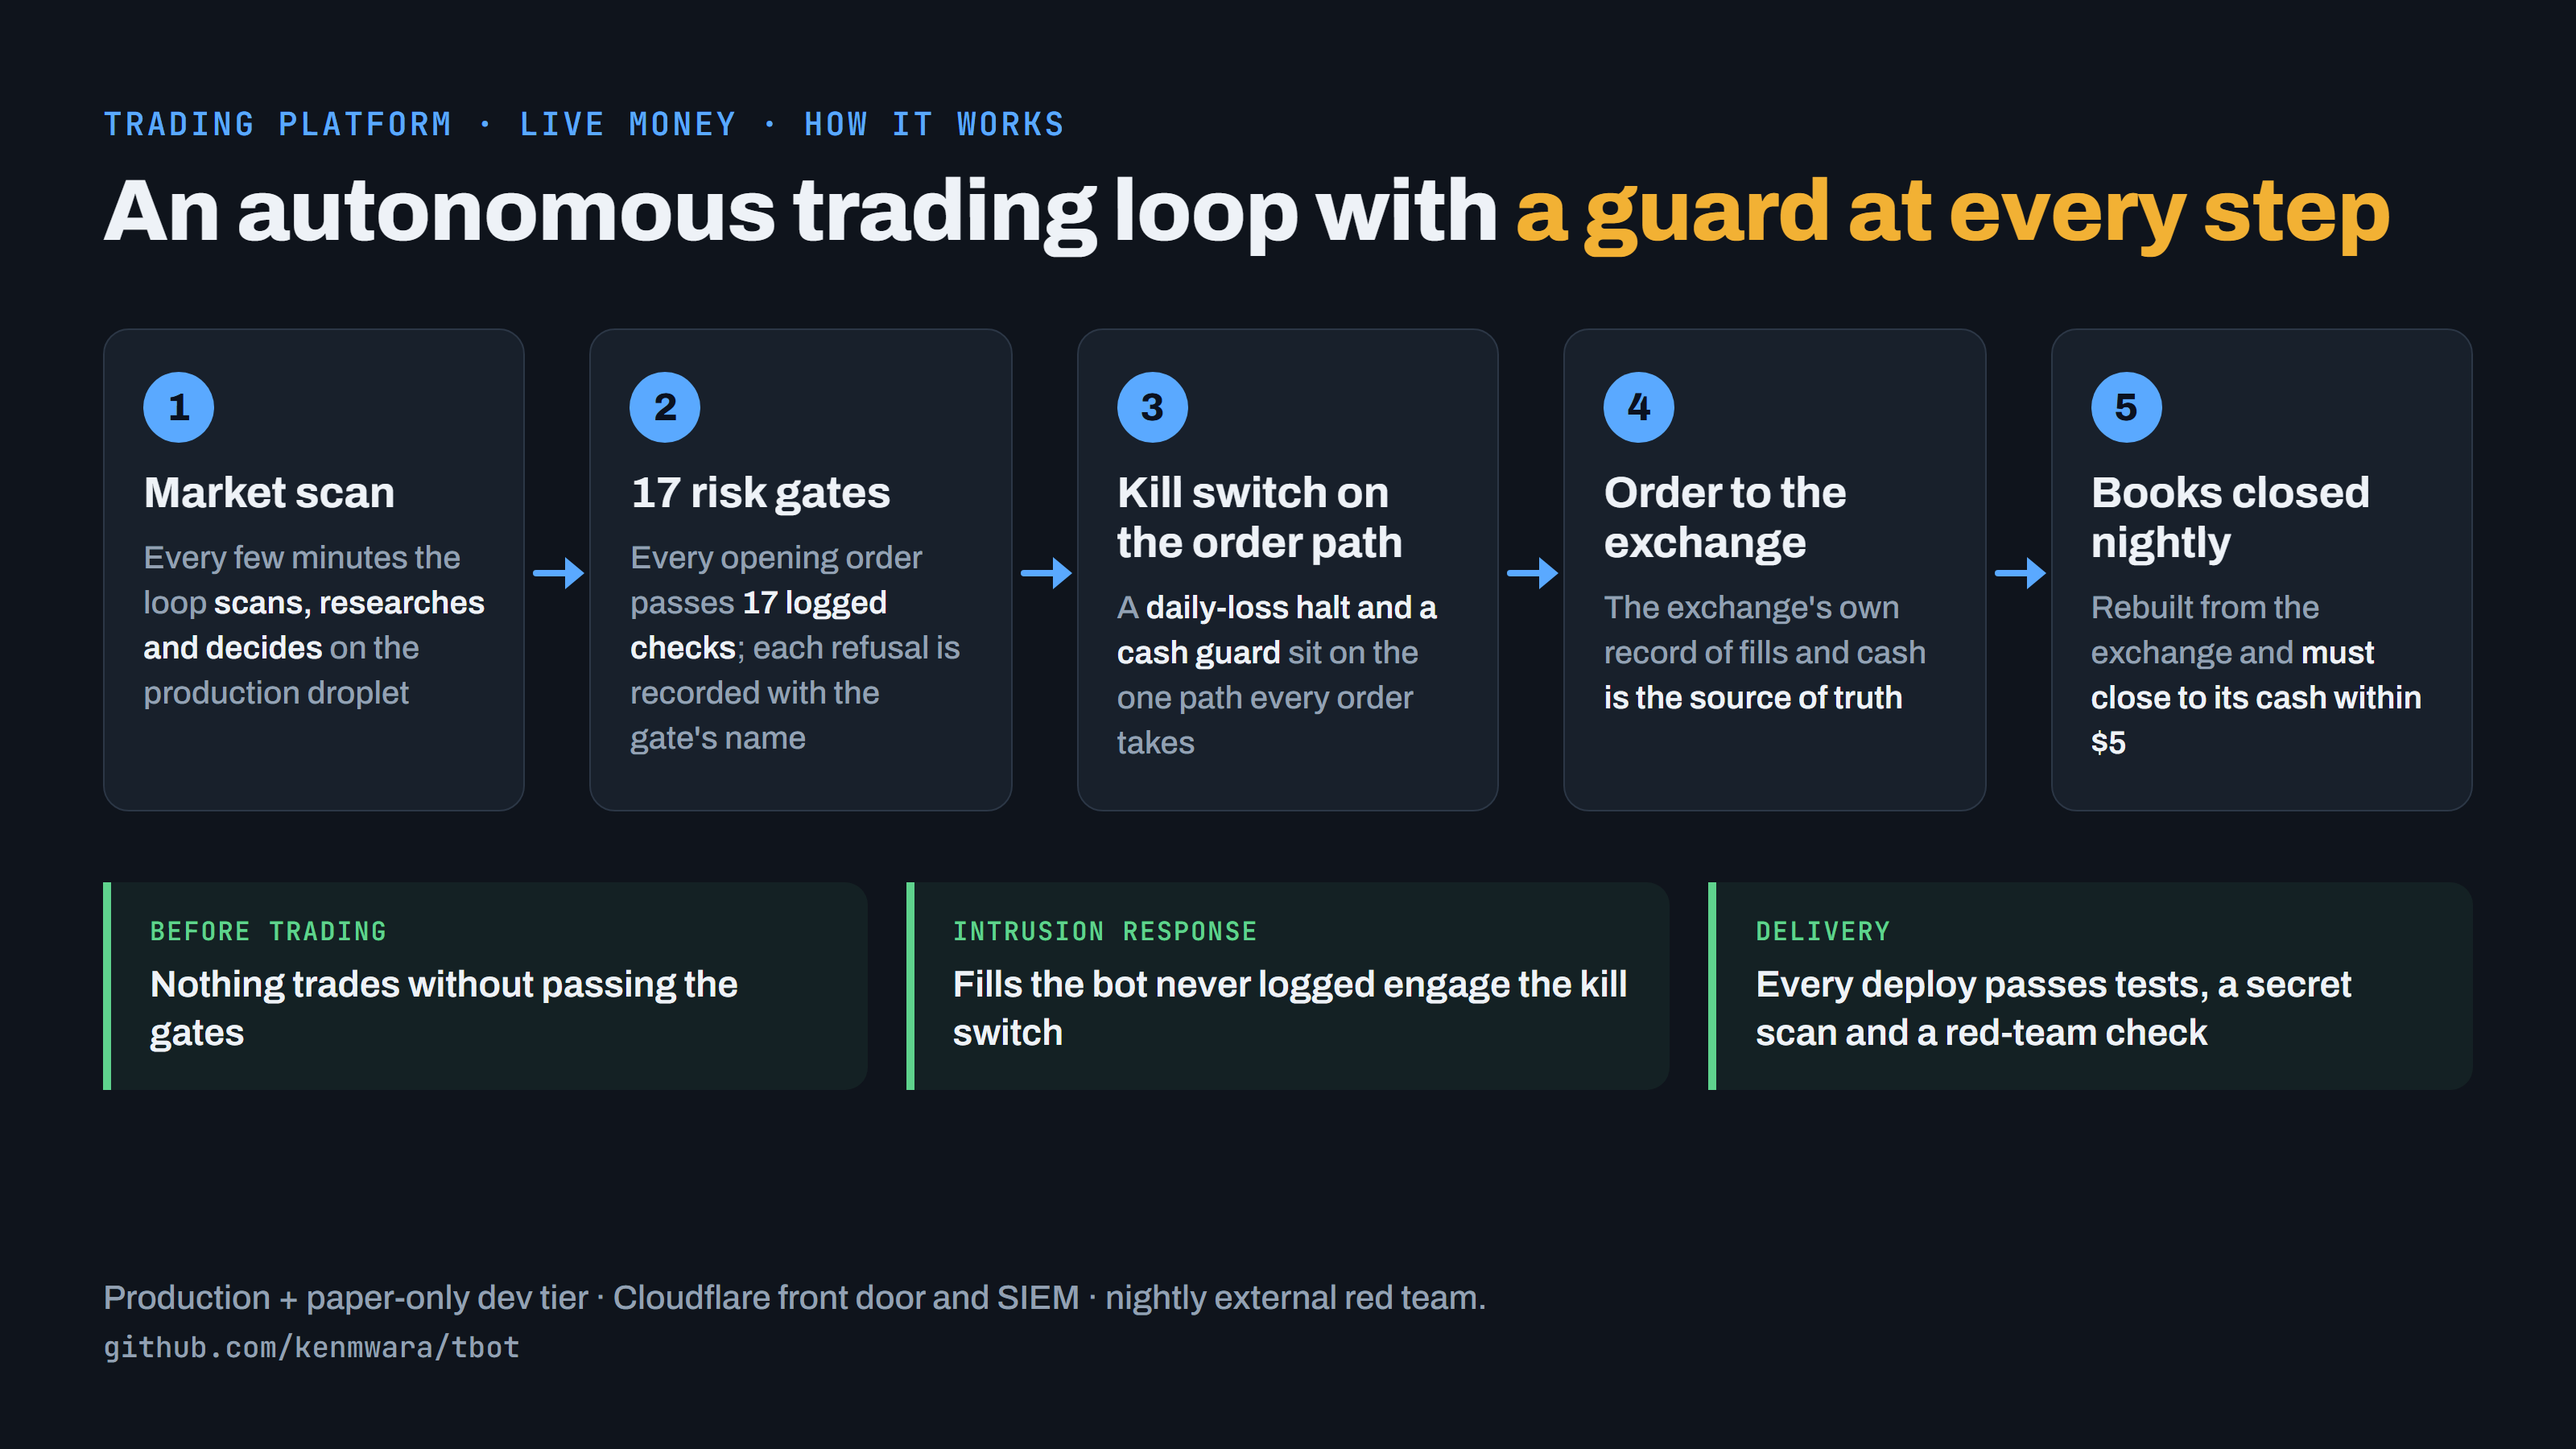
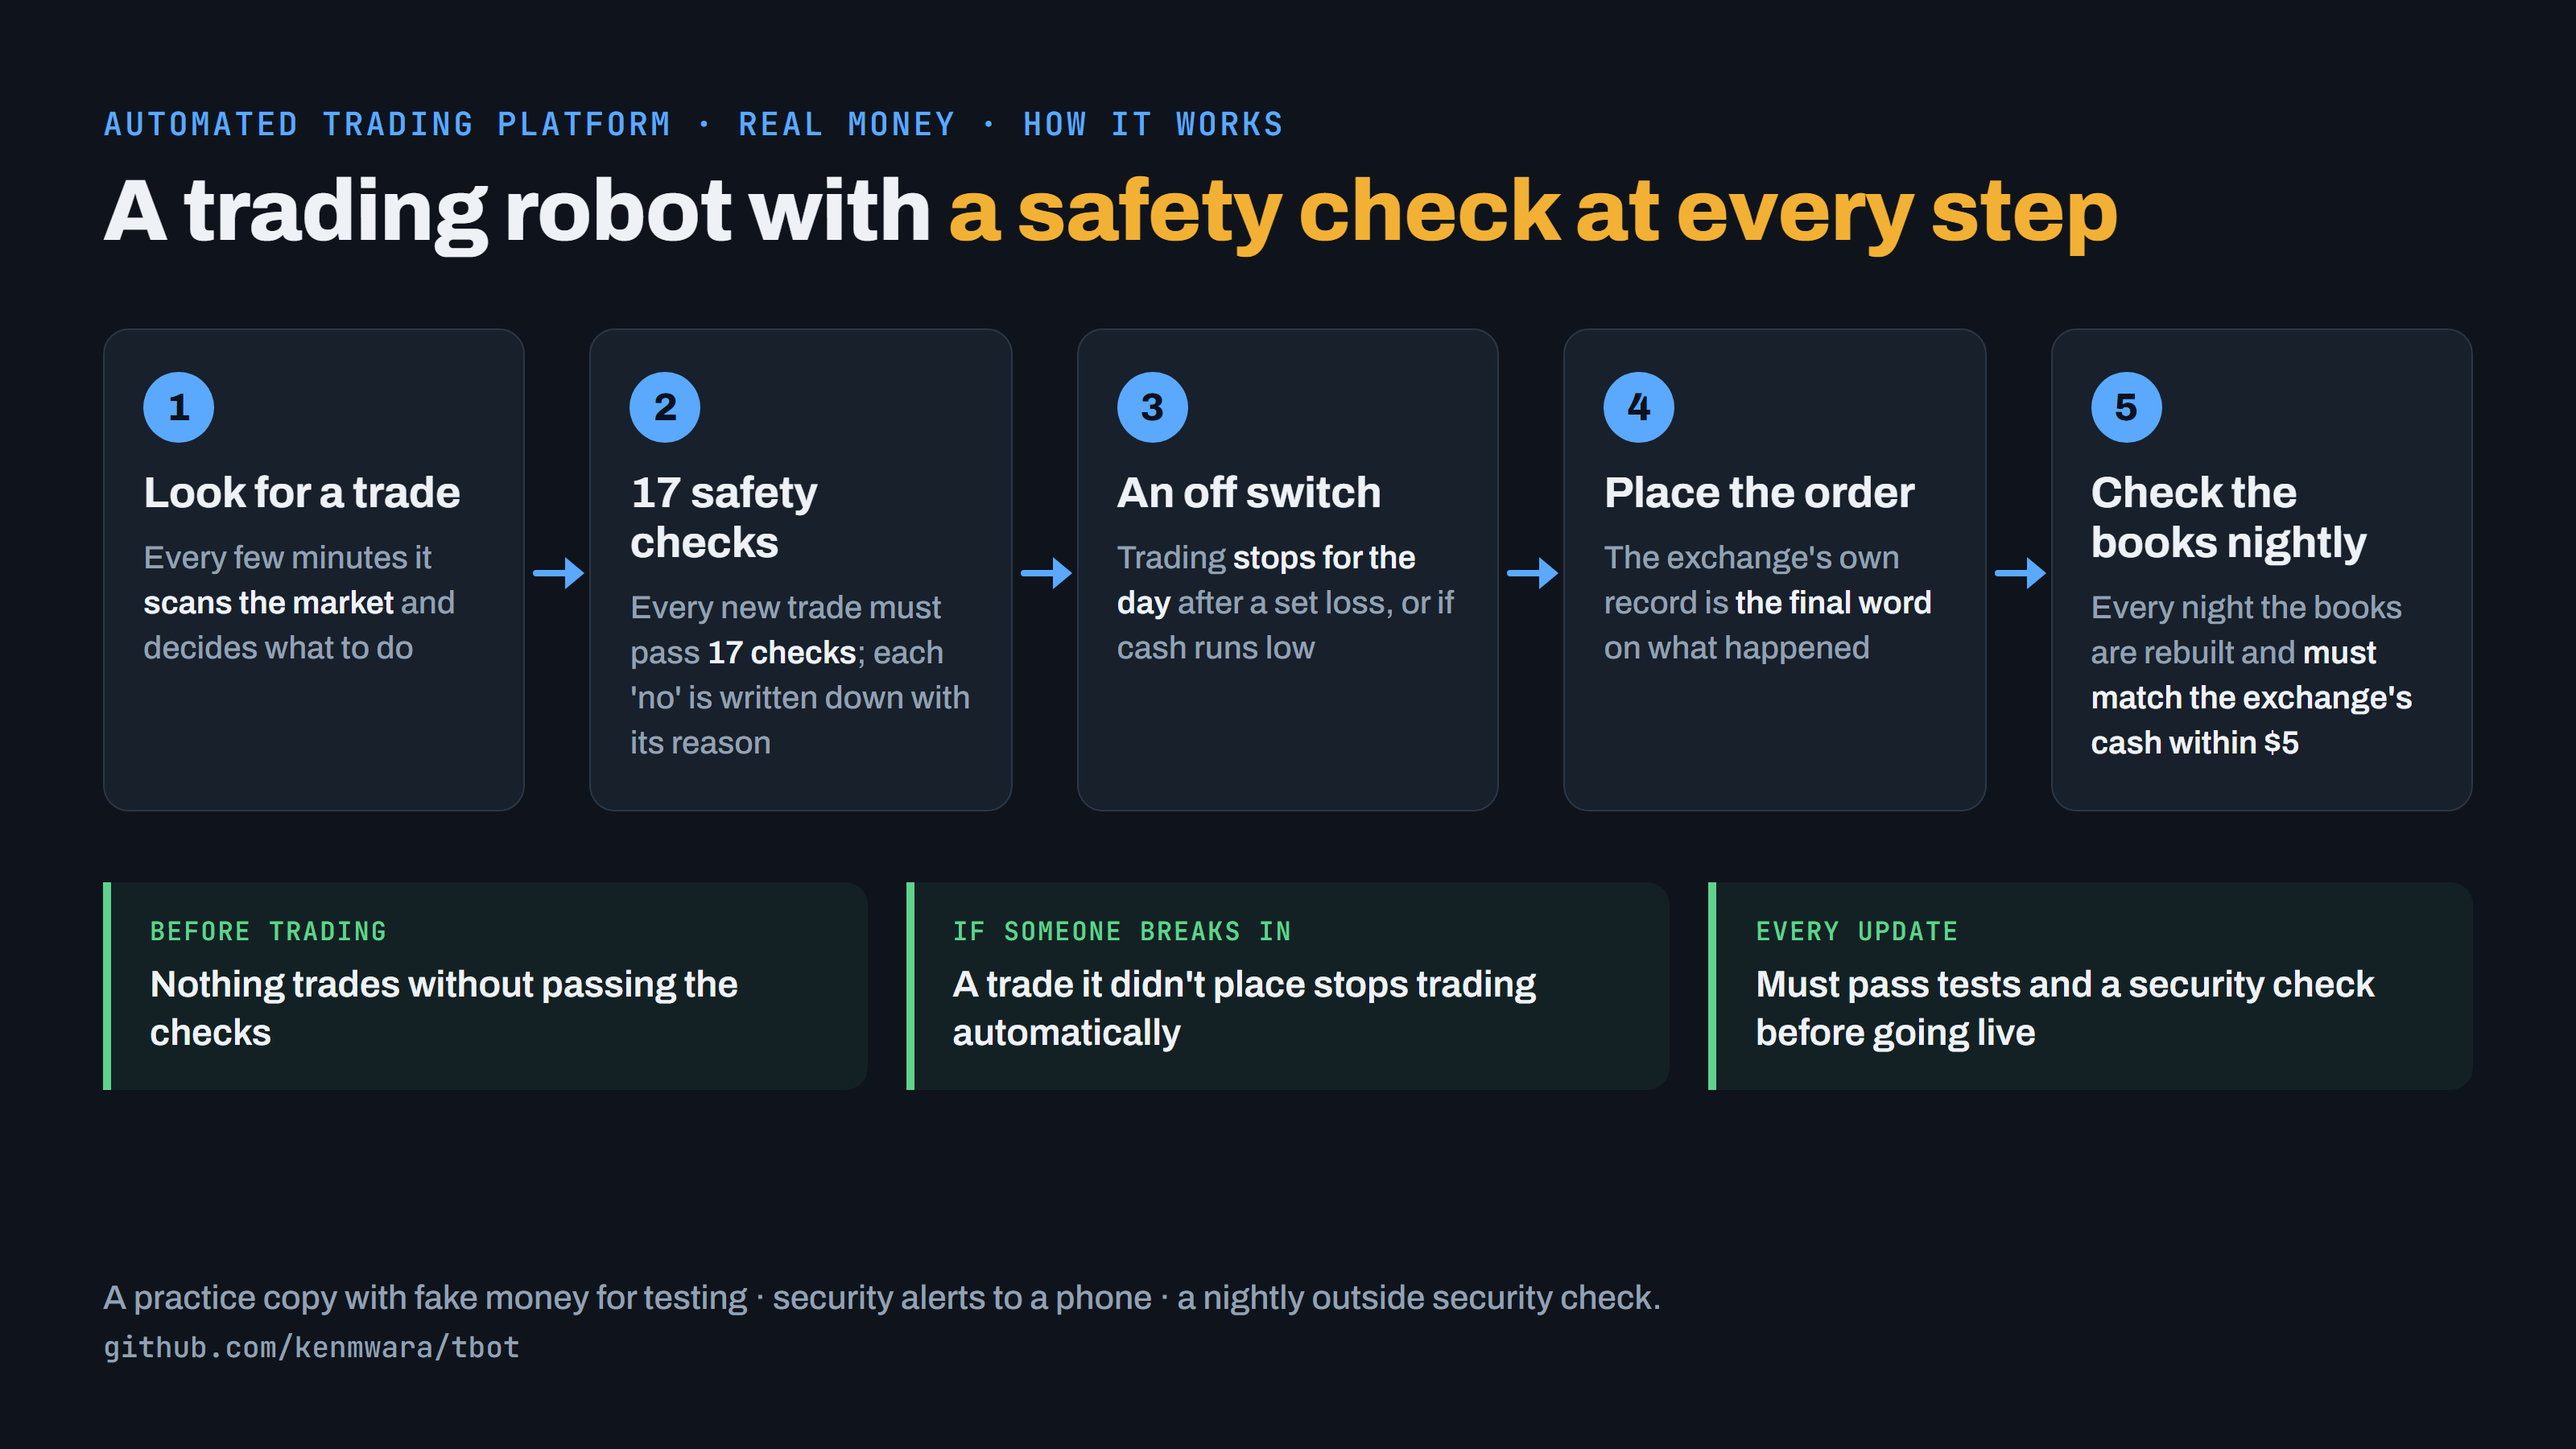
docs: diagrams and scorecards rewritten in plain English

diff --git a/README.md b/README.md
@@ -11,7 +11,7 @@
 
 ---
 
-<img src="images/flow.png" width="100%" alt="Flow diagram in five steps. 1: Market scan; Every few minutes the loop scans, researches and decides on the production droplet. 2: 17 risk gates; Every opening order passes 17 logged checks; each refusal is recorded with the gate's name. 3: Kill switch on the order path; A daily-loss halt and a cash guard sit on the one path every order takes. 4: Order to the exchange; The exchange's own record of fills and cash is the source of truth. 5: Books closed nightly; Rebuilt from the exchange and must close to its cash within $5. Guards: Before trading, nothing trades without passing the gates; Intrusion response, fills the bot never logged engage the kill switch; Delivery, every deploy passes tests, a secret scan and a red-team check.">
+<img src="images/flow.png" width="100%" alt="How it works, in five steps. 1. Look for a trade: Every few minutes it scans the market and decides what to do. 2. 17 safety checks: Every new trade must pass 17 checks; each 'no' is written down with its reason. 3. An off switch: Trading stops for the day after a set loss, or if cash runs low. 4. Place the order: The exchange's own record is the final word on what happened. 5. Check the books nightly: Every night the books are rebuilt and must match the exchange's cash within $5. Safeguards: Before trading: Nothing trades without passing the checks; If someone breaks in: A trade it didn't place stops trading automatically; Every update: Must pass tests and a security check before going live.">
 
 ## Screenshots
 
